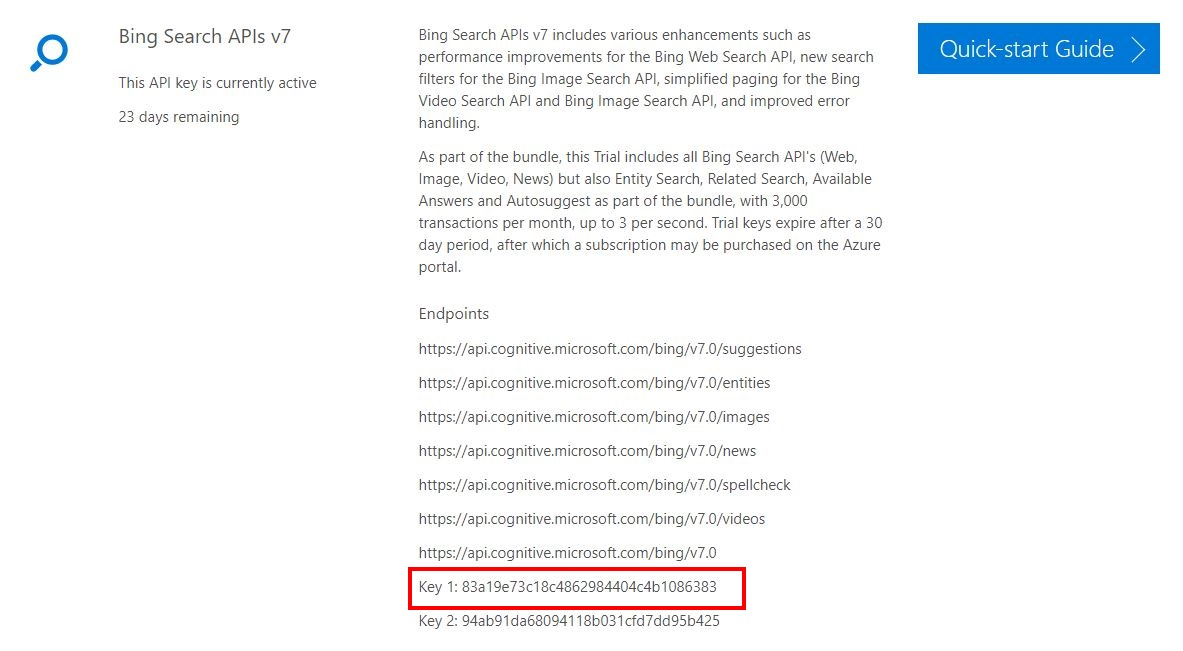
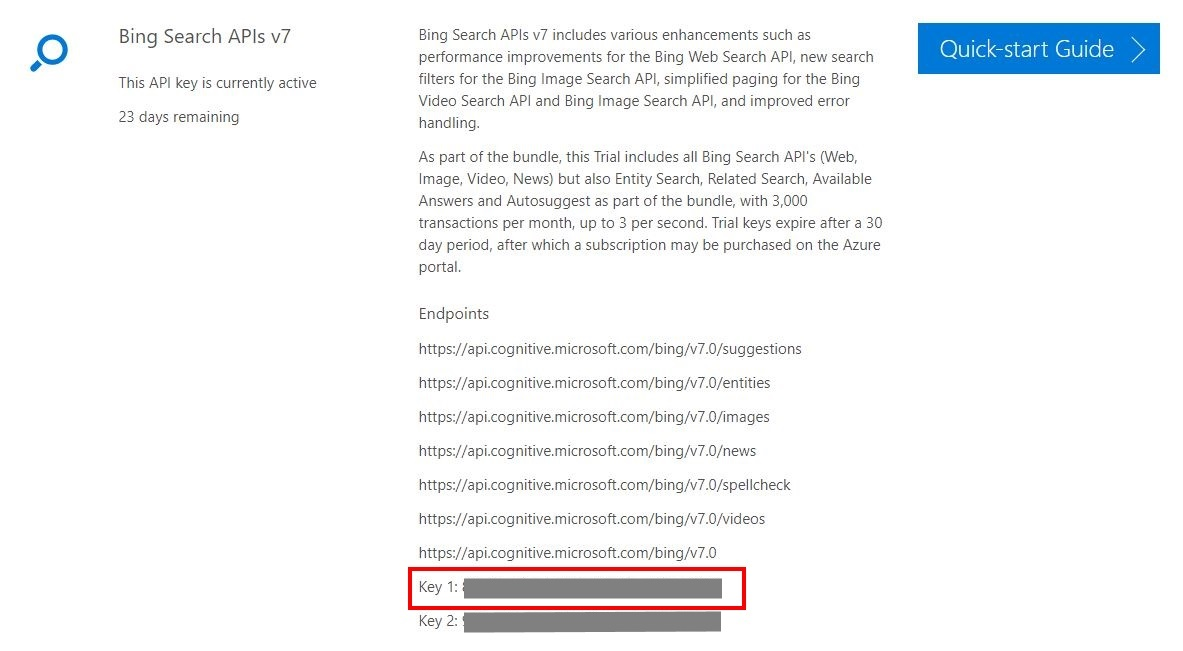
got the base setup

Changed region(s): [[0.3956, 0.8602, 0.6086, 0.9831]]

diff --git a/CognitiveServicesDemo/ClientApp/src/components/Navbar/index.js b/CognitiveServicesDemo/ClientApp/src/components/Navbar/index.js
@@ -1,28 +1,34 @@
 import React from "react";
 import { Link } from "react-router-dom";
-import Logo from './Logo.png'
+import Logo from "./Logo.png";
 
 export const Navbar = () => (
-<nav className="navbar is-black">
-  <div className="container">
-  <div className="navbar-brand">
-    <a className="navbar-item" href="https://bulma.io">
-      <img src={Logo} alt="Microsoft Azure"/>
-    </a>
-    <div className="navbar-burger burger" data-target="navbarExampleTransparentExample">
-      <span></span>
-      <span></span>
-      <span></span>
-    </div>
-  </div>
+  <nav className="navbar is-black">
+    <div className="container">
+      <div className="navbar-brand">
+        <a className="navbar-item" href="https://bulma.io">
+          <img src={Logo} alt="Microsoft Azure" />
+        </a>
+        <div
+          className="navbar-burger burger"
+          data-target="navbarExampleTransparentExample"
+        >
+          <span />
+          <span />
+          <span />
+        </div>
+      </div>
 
-  <div className="navbar-menu">
-    <div className="navbar-start">
-      <Link className="navbar-item" to="/">
-          Vision
-      </Link>
+      <div className="navbar-menu">
+        <div className="navbar-start">
+          <Link className="navbar-item" to="/">
+            Vision
+          </Link>
+          <Link className="navbar-item" to="/text-analytics">
+            Text Analytics
+          </Link>
+        </div>
+      </div>
     </div>
-    </div>
-    </div>
-</nav>
+  </nav>
 );

diff --git a/CognitiveServicesDemo/ClientApp/src/vision/index.js b/CognitiveServicesDemo/ClientApp/src/vision/index.js
@@ -18,11 +18,9 @@ export class Vision extends Component {
     searchText: null
   };
   configIsValid = () => {
-    const {
-      config: { computerVision, bingSearch }
-    } = this.props;
+    const { config: { computerVision, bingSearch } } = this.props;
     return computerVision.key && computerVision.region && bingSearch.key;
-  }
+  };
   getThumbnailUrl = image => {
     return `${image.thumbnailUrl}&${qs.stringify({ w: 300, h: 300 })}`;
   };
@@ -79,15 +77,15 @@ export class Vision extends Component {
       analysisData
     } = this.state;
     if (!this.configIsValid()) {
-      return <Notification type="danger" text="Please go to the readme and configure the your user secrets for Computer Vision and Bing Search API"/>
+      return (
+        <Notification
+          type="danger"
+          text="Please go to the readme and configure the your user secrets for Computer Vision and Bing Search API"
+        />
+      );
     }
     return (
-      <div
-        className="vision"
-        ref={element => {
-          this.container = element;
-        }}
-      >
+      <div className="vision">
         <header>
           <h1 className="title is-1">Microsoft Computer Vision</h1>
         </header>

diff --git a/CognitiveServicesDemo/ClientApp/src/text-analytics/index.js b/CognitiveServicesDemo/ClientApp/src/text-analytics/index.js
@@ -1,0 +1,32 @@
+import React, { Component } from 'react';
+
+import { Notification } from "../components/Notification";
+
+export class TextAnalytics extends Component {
+  state = {
+  };
+  configIsValid = () => {
+    const {
+      config: { textAnalytics }
+    } = this.props;
+    return textAnalytics.key && textAnalytics.region;
+  }
+  render() {
+    if (!this.configIsValid()) {
+      return (
+        <Notification
+          type="danger"
+          text={`Configuration is invalid. Please refer to the readme to configure the your user secrets for Text Analytics API`}
+        />
+      );
+    }
+    return (
+      <div className="vision">
+        <header>
+          <h1 className="title is-1">Microsoft Text Analytics API</h1>
+        </header>
+        
+      </div>
+    )
+  }
+}

diff --git a/CognitiveServicesDemo/ClientApp/src/App.js b/CognitiveServicesDemo/ClientApp/src/App.js
@@ -6,6 +6,7 @@ import { getCognitiveServicesConfig } from "./api/config";
 
 import { Navbar } from "./components/Navbar";
 import { Vision } from "./vision";
+import { TextAnalytics } from './text-analytics'
 
 class App extends Component {
   state = {
@@ -32,6 +33,11 @@ class App extends Component {
                 exact
                 path="/"
                 render={() => <Vision config={cognitiveServicesConfig} />}
+              />
+              <Route
+                exact
+                path="/text-analytics"
+                render={() => <TextAnalytics config={cognitiveServicesConfig} />}
               />
             </div>
           </section>

diff --git a/CognitiveServicesDemo/Options/CognitivesServicesOptions.cs b/CognitiveServicesDemo/Options/CognitivesServicesOptions.cs
@@ -6,6 +6,8 @@ namespace CognitiveServicesDemo.Options
 
     public CognitiveServiceKey ComputerVision { get; set; }
 
+    public CognitiveServiceKey TextAnalytics { get; set; }
+
     public CognitiveServiceKey BingSearch { get; set; }
   }
 

diff --git a/README.md b/README.md
@@ -42,9 +42,10 @@ Now you are run the application but you will need to add the Azure Cognitive Ser
 
 #### Computer Vision API
 
-- Open the [Computer Vision page here](https://azure.microsoft.com/en-us/services/cognitive-services/computer-vision/)
+- Open the [Computer Vision API page here](https://azure.microsoft.com/en-us/services/cognitive-services/computer-vision/)
 - Click on "Try Computer Vision API"
-- Click Get API Key and login
+- Click Get API Key on the right of "Computer Vision API"
+- Accept the terms and follow the login prompt
 - Below you can see the key and the region highlighted in red:
 
   ![Endpoint Region](/images/ComputerVisionApiKey.JPG)
@@ -59,11 +60,33 @@ dotnet user-secrets set CognitiveServices:ComputerVision:Key ComputerVisionKeyHe
 dotnet user-secrets set CognitiveServices:ComputerVision:Region ComputerVisionRegionHere
 ```
 
+#### Text Analytics API
+
+- Open the [Text Analytics API page here](https://azure.microsoft.com/en-us/services/cognitive-services/computer-vision/)
+- Click on "Try Text Analytics API"
+- Click Get API Key on the right of "Text Analytics API"
+- Accept the terms and follow the login prompt
+- Below you can see the key and the region highlighted in red:
+
+  ![Endpoint Region](/images/TextAnalyticsKey.JPG)
+
+**Add Key and region to the app**
+
+Open up a terminal or command window and run the from the root of the project replacing **TextAnalyticsKeyHere** and **TextAnalyticsRegionHere** with your key and region as in the above screenshot:
+
+``` bash
+cd CognitiveServicesDemo
+dotnet user-secrets set CognitiveServices:TextAnalytics:Key TextAnalyticsKeyHere
+dotnet user-secrets set CognitiveServices:TextAnalytics:Region TextAnalyticsRegionHere
+```
+
+
 #### Bing Search APIs v7
 
-- Open the [Bing Search v7 page here](https://azure.microsoft.com/en-us/services/cognitive-services/bing-web-search-api/)
+- Open the [Bing Search APIs page here](https://azure.microsoft.com/en-us/services/cognitive-services/bing-web-search-api/)
 - Click on "Try Bing Web Search API"
-- Click Get API Key and login
+- Click Get API Key on the right of "Bing Search APIs v7"
+- Accept the terms and follow the login prompt
 - Below you can see the key highlighted in red:
 
   ![Endpoint Region](/images/BingSearchApiKey.JPG)
